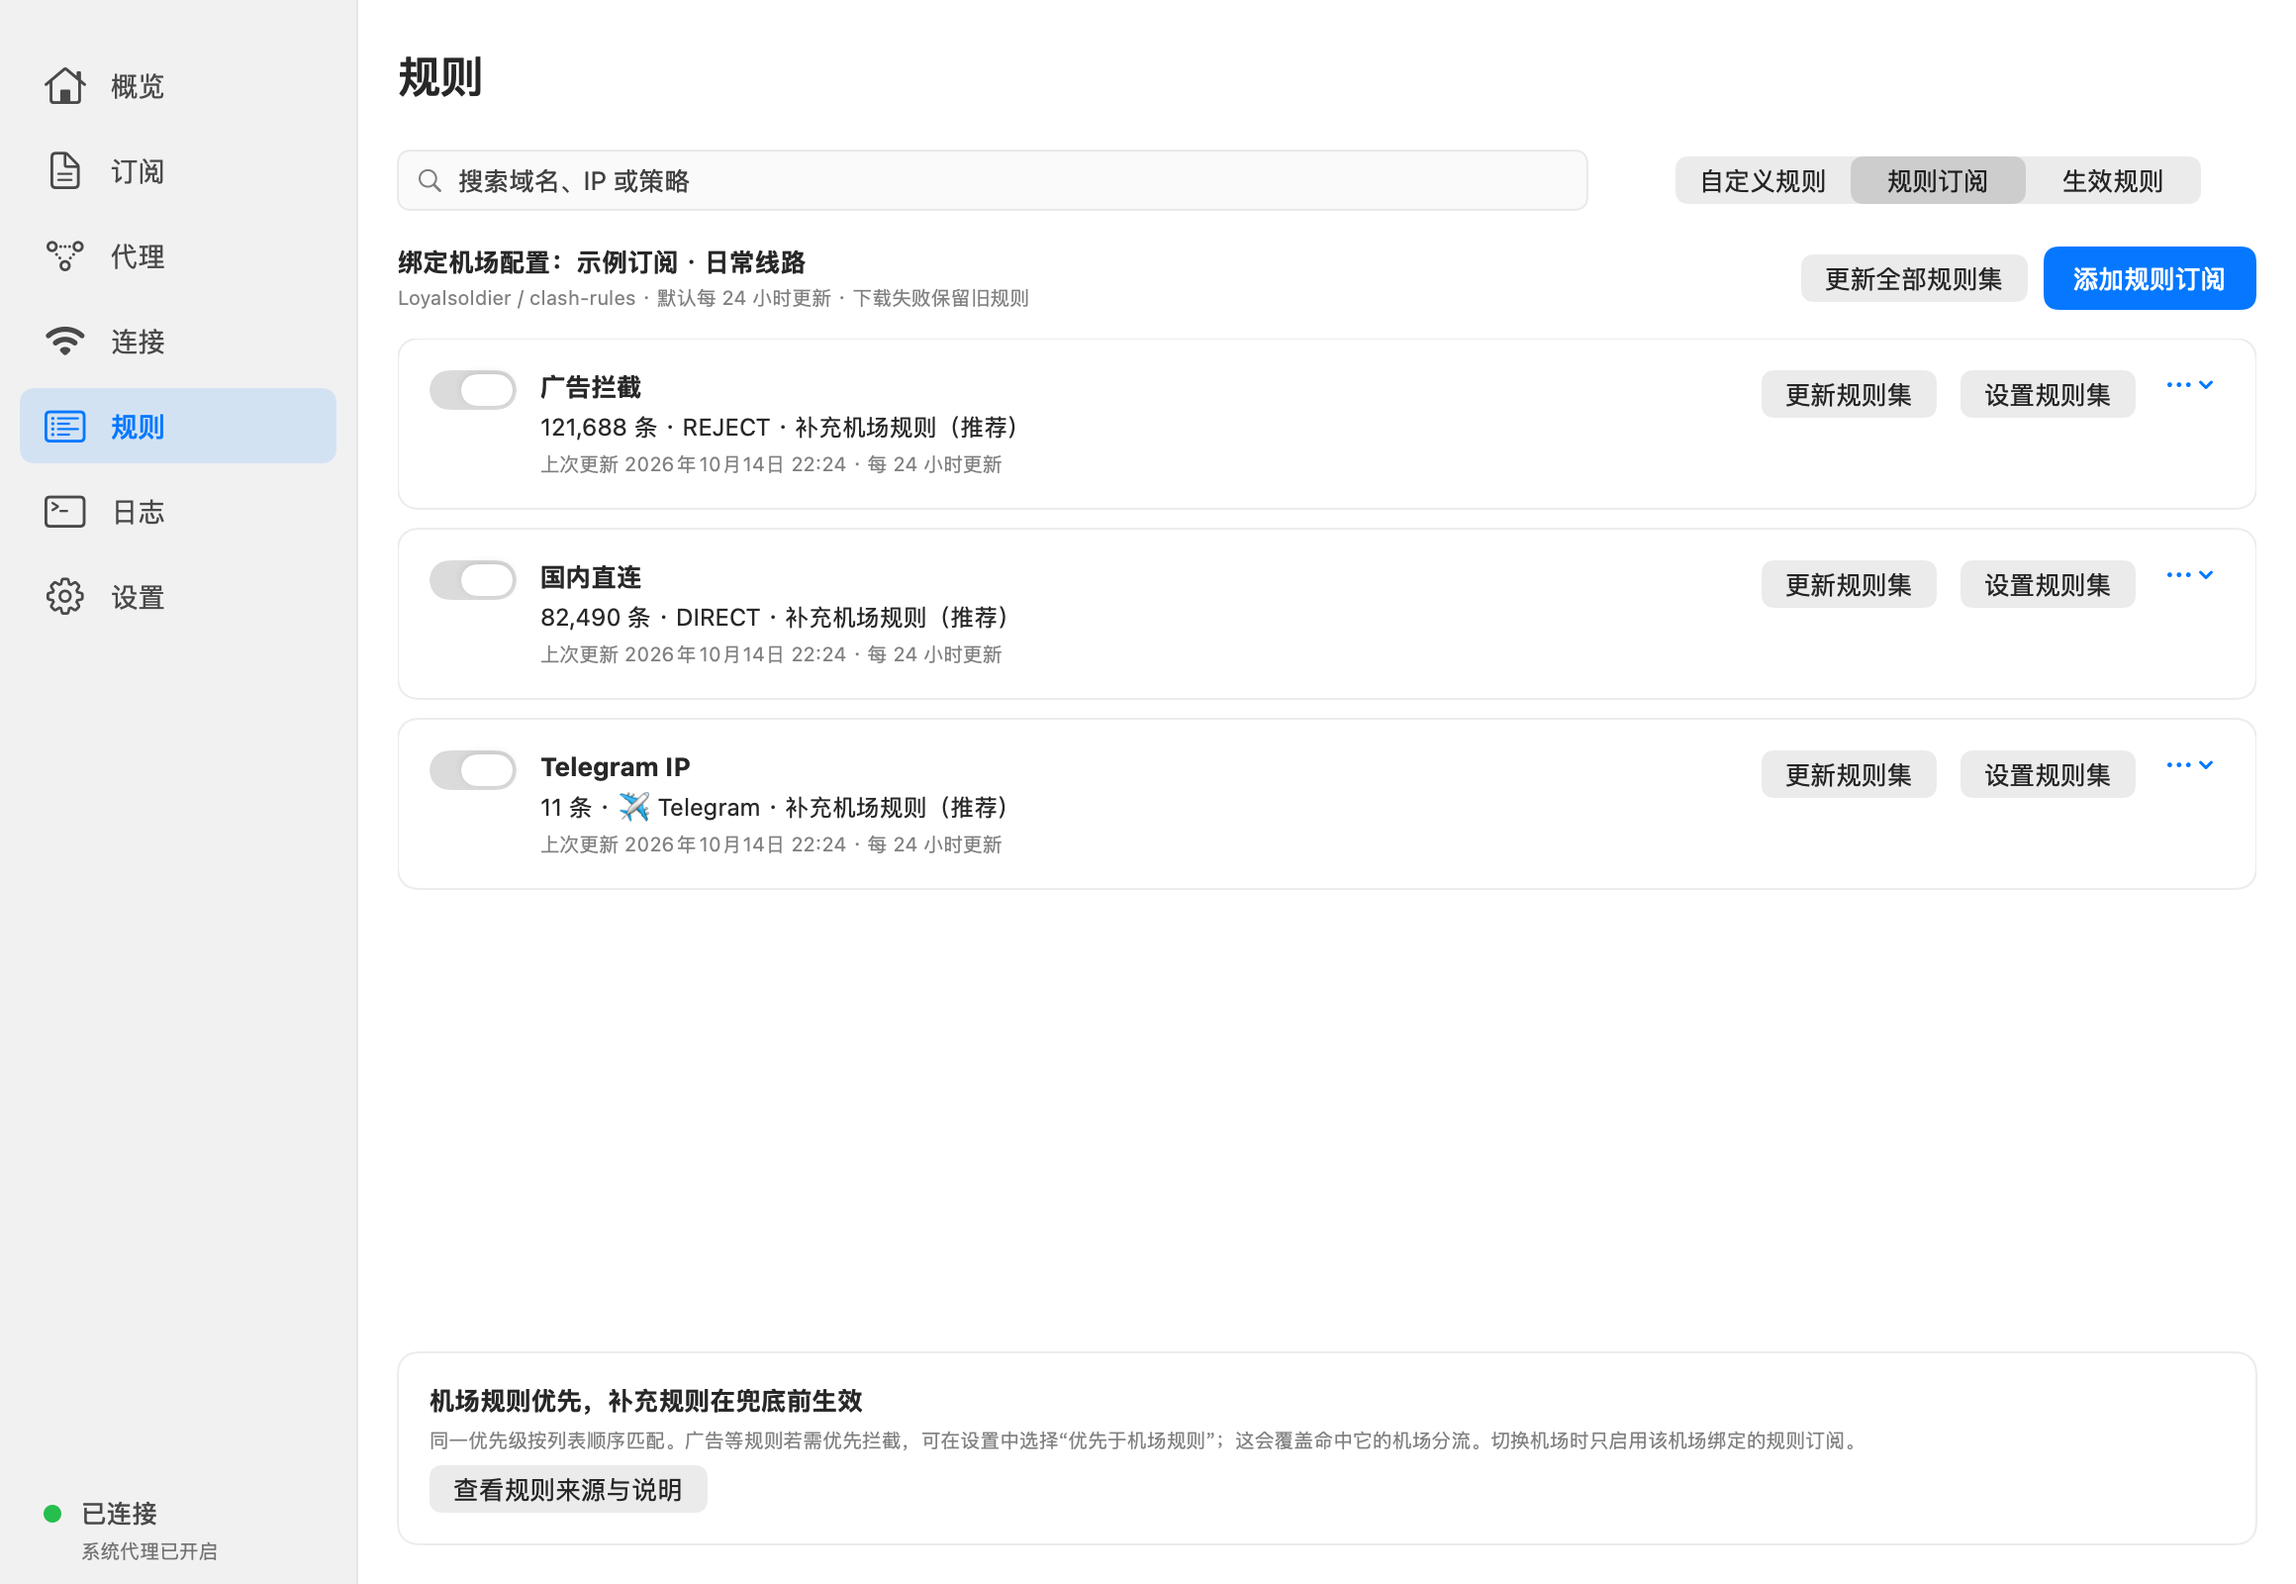
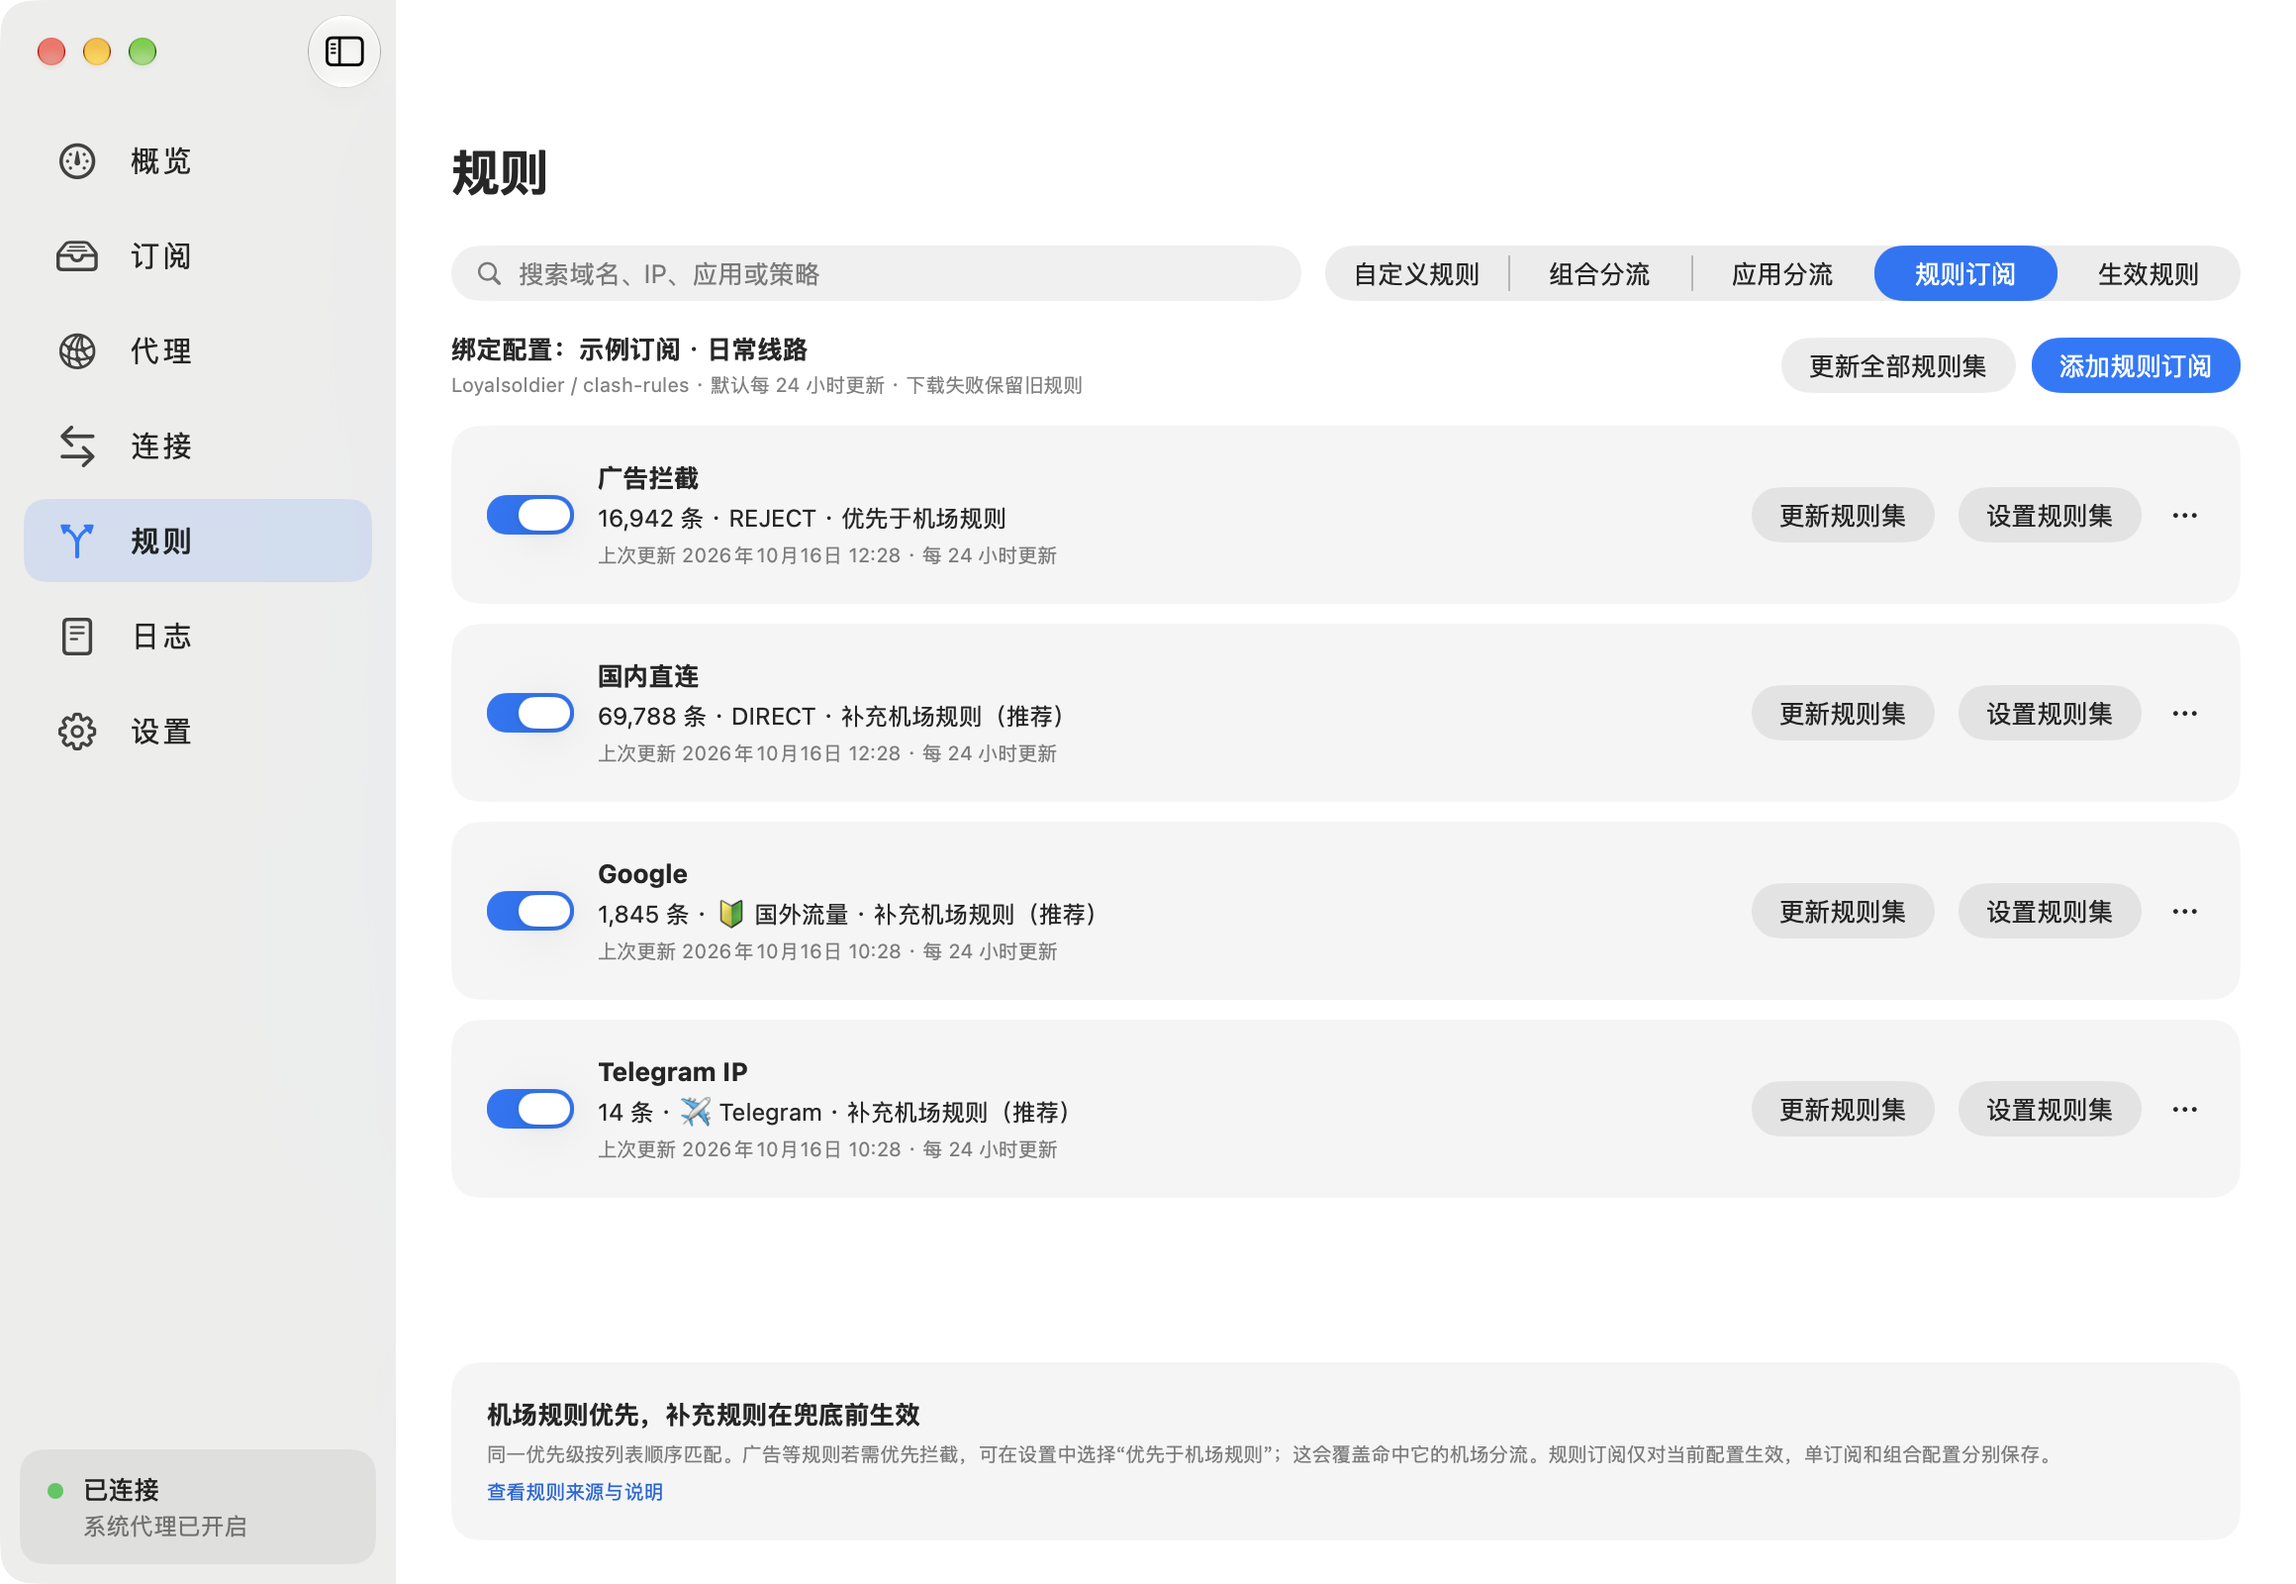
DOC: 将 README 界面截图更新为新版界面
- 8 张截图改为当前版本真实窗口截图，2 倍分辨率，使用演示数据，不含真实订阅或连接
- 说明文字由“离线渲染”改为“真实窗口截图”，订阅导入说明去掉“虚线区域”

diff --git a/README.md b/README.md
@@ -48,7 +48,7 @@ LumaRoute 使用 **SwiftUI + AppKit** 构建桌面界面，由独立的 **[Mihom
 
 ## 界面展示
 
-以下图片由**当前 SwiftUI 界面组件使用演示数据离线渲染**，用于展示实际布局；其中订阅、节点、流量及连接均为示例，不包含真实账号或网络记录。早期设计稿另见 [design](design/)。
+以下图片是**当前版本真实窗口的截图**，使用演示数据；其中订阅、节点、流量及连接均为示例，不包含真实账号或网络记录。早期设计稿另见 [design](design/)。
 
 <table>
   <tr>
@@ -60,7 +60,7 @@ LumaRoute 使用 **SwiftUI + AppKit** 构建桌面界面，由独立的 **[Mihom
     <td><strong>系统代理与 TUN</strong><br /><img src="docs/images/tun-settings.png" alt="网络设置演示：系统代理、TUN、协议栈与 DNS" /></td>
   </tr>
   <tr>
-    <td><strong>连接查看器</strong><br /><img src="docs/images/connections.png" alt="连接页演示：进程、目标、策略和流量" /></td>
+    <td><strong>连接查看器</strong><br /><img src="docs/images/connections.png" alt="连接页演示：进程、目标、策略、流量和连接详情" /></td>
     <td><strong>运行日志</strong><br /><img src="docs/images/logs.png" alt="日志页演示：级别、来源、搜索与诊断导出" /></td>
   </tr>
 </table>
@@ -191,7 +191,7 @@ LUMAROUTE_SIGNING_IDENTITY='Developer ID Application: 你的身份' \
 
 ### 1. 导入订阅
 
-在 **订阅 → 添加订阅** 中填写名称和链接；也可以导入文件，或把配置拖入订阅页的虚线区域。
+在 **订阅 → 添加订阅** 中填写名称和链接；也可以导入文件，或把配置文件拖到订阅页导入。
 
 - 订阅链接保存在本机 SQLite 数据库中。
 - 默认使用 Clash Meta 兼容 User-Agent；可为每个订阅单独指定。
